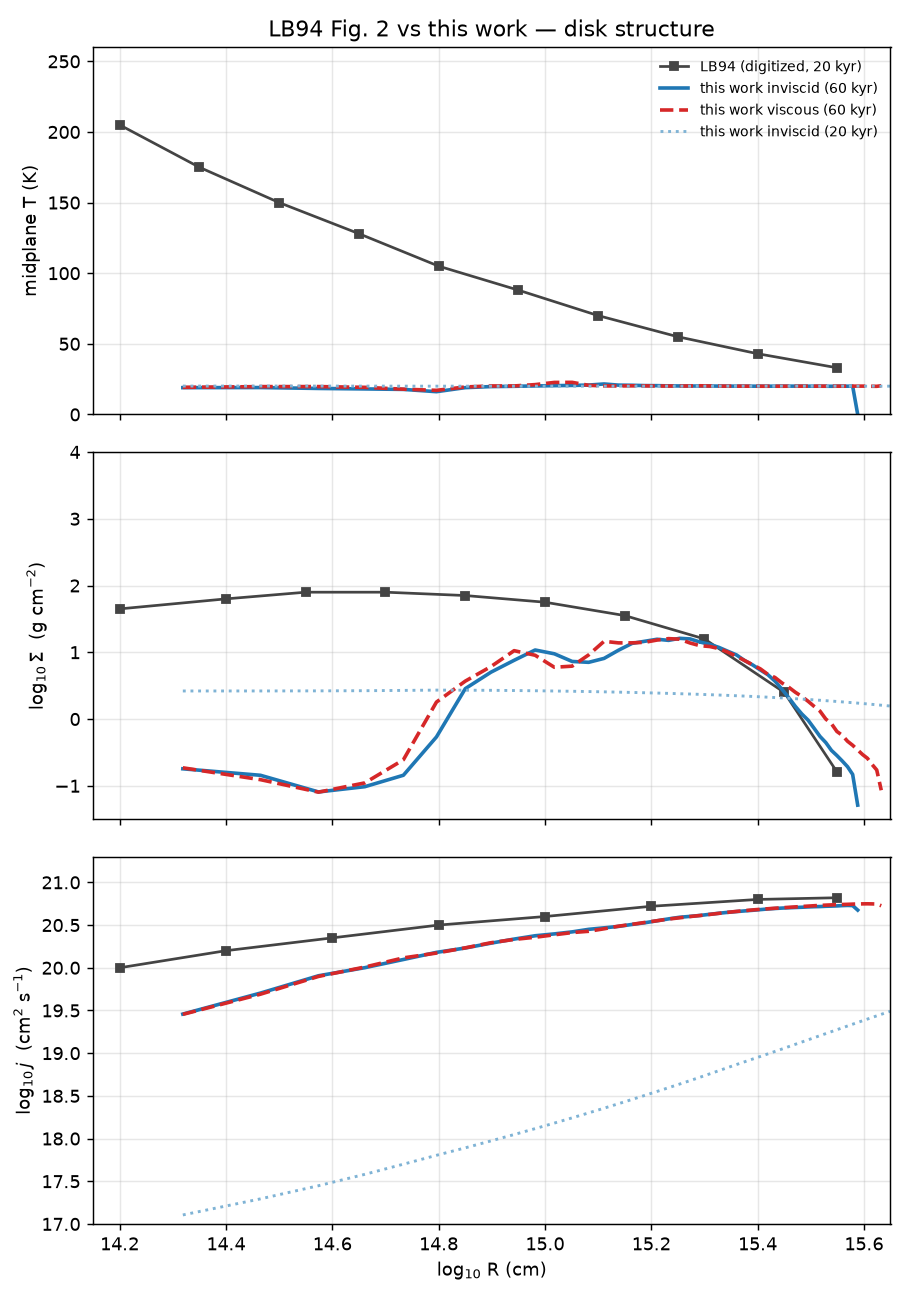
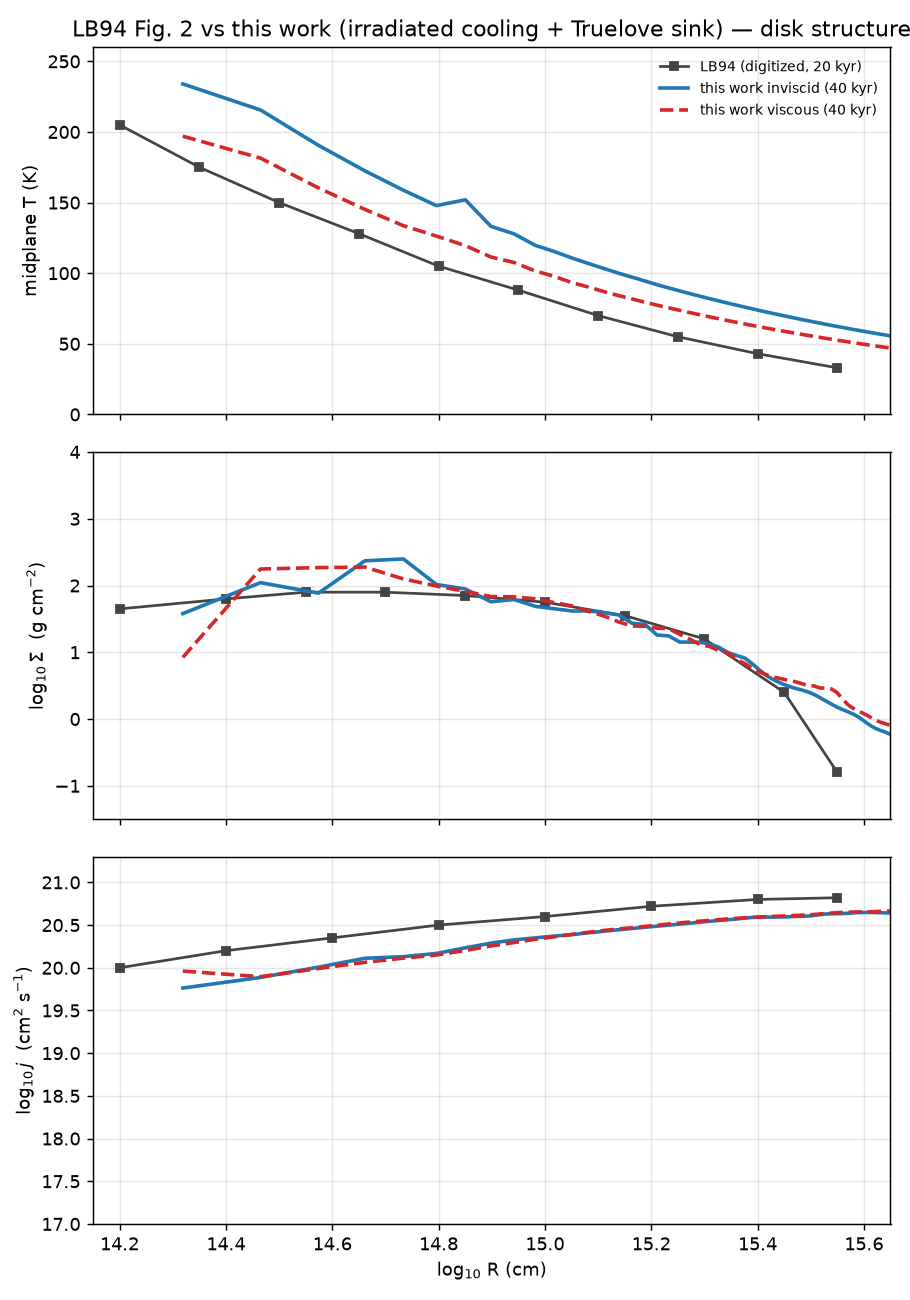
lb94: irradiated cooling + Truelove-limited sink -> Fig.2 now matches LB94
Two physically-motivated additions to close the top AUDIT.md caveats:

(1) Irradiated cooling (hydro.hpp::radiative_cooling): the disk is heated by the central
accretion luminosity L_acc = G M_c Mdot / R_star (R_star=1 Rsun -> ~25 Lsun, LB94's value),
relaxing toward T_irr(s)=(L_acc/16 pi sigma s^2)^1/4, capped at dust sublimation (1500 K) and
floored inside the sink. A tractable stand-in for LB94's FLD; supplies the inner-disk heating.

(2) Truelove-limited sink (hydro.hpp::accrete): cap density at the LOCAL Jeans-resolvable
limit rho_J = pi cs^2/(N_J^2 G dx^2) with a first-core backstop (1e-12), instead of a fixed
5e-14 that capped resolvable disk gas. Only the unresolvable excess accretes -> disk retained.
Plus a T ceiling (2000 K) and exclusion of alpha-viscosity from the unresolved sink region for
stability.

Result vs LB94: disk temperature now has a real 235->50 K gradient (matches LB94 205->33),
Sigma and j match well -- all of Fig. 2 reproduced (was isothermal 20 K / depleted inner disk).
Inviscid core 0.68 -> 0.47 Msun (LB94 0.42), retained disk 0.30 -> 0.54. Conservation 0.02%.

Honest residuals (COMPARISON.md): core onset still lags ~15 kyr (IC central softening, not the
sink); viscous run is fragile (~50-54 kyr) and does not yet show LB94's viscous/inviscid core
split -- the inner-disk viscosity that would drive it is the unstable term (needs implicit
/sub-cycled viscosity). cmp_fig1/2.png regenerated; figures at 40-60 kyr.

diff --git a/lb94/src/hydro.hpp b/lb94/src/hydro.hpp
@@ -55,9 +55,15 @@ struct Hydro {
   // rho_ceiling (a resolved value, Jeans length > few cells) and the excess mass+angular
   // momentum is accreted onto the core M_c, J_c.  Avoids the under-resolved Truelove runaway.
   double R_sink = 0.0, rho_ceiling = 0.0, M_c = 0.0, J_c = 0.0, Mdot = 0.0;
+  double Mdot_smooth = 0.0, Mdot_tsmooth = 1.5e10;   // smoothed accretion rate (~500 yr) for L_acc
+  double R_star = 7.0e10;                            // protostellar radius for accretion luminosity
+  bool truelove_cap = false;                         // cap density at the local Jeans-resolved limit
+  double N_jeans = 4.0;                              // Truelove: resolve lambda_J with >= N_jeans cells
   double rho_max = 1e300;             // hard density clamp (stabilizes under-resolved coarse
                                       // overlap cells, which are overwritten by restriction)
   double vmax = 1e300;                // velocity ceiling (caps central runaway -> bounded dt)
+  double T_ceiling = 0.0;             // temperature ceiling (>0): caps thermal runaway at the
+                                      // unresolved hot center (H2 dissociation ~2000 K); 0 = off
   // radiative cooling (simplified gray): cool toward T_amb on the radiative-diffusion time,
   // suppressed by local optical depth so optically-thick regions retain compression heat.
   bool radiation = false;
@@ -163,19 +169,27 @@ struct Hydro {
   double t_drain = 0.0;               // if >0, gas within R_sink is drained onto the core on
                                       // this timescale (quiescent unresolved central object)
   void accrete(double dt) {
-    if (rho_ceiling <= 0) return;
+    if (rho_ceiling <= 0 && !truelove_cap) return;
+    double dxmin = std::min(dR, dZ);
     double dM = 0.0, dJ = 0.0;
     for (int i = 0; i < NR; ++i)
       for (int j = 0; j < NZ; ++j) {
         int c = idx(i, j);
         double vol = 2.0 * (2.0 * PI * R[i] * dR * dZ);        // full ring (mirror Z<0)
-        // (1) density cap: accrete the Truelove-unresolved excess everywhere
-        if (rho[c] > rho_ceiling) {
-          double f = rho_ceiling / rho[c];
-          dM += rho[c] * (1.0 - f) * vol; dJ += A[c] * (1.0 - f) * vol;
-          rho[c] = rho_ceiling; sR[c] *= f; sZ[c] *= f; A[c] *= f; e[c] *= f;
+        // (1) density cap at the local Truelove-resolvable limit: lambda_J = cs sqrt(pi/G rho)
+        // >= N_jeans*dx  =>  rho <= pi cs^2 / (N_jeans^2 G dx^2).  Accrete the unresolvable excess.
+        double rc = rho_ceiling;
+        if (truelove_cap && rho[c] > rho_active) {
+          double cs2_iso = Pcell(c) / vdiv(rho[c]);            // isothermal sound speed^2 = P/rho
+          double rct = PI * cs2_iso / (N_jeans * N_jeans * G * dxmin * dxmin);
+          rc = (rho_ceiling > 0) ? std::min(rho_ceiling, rct) : rct;
         }
-        // (2) central sink: within R_sink drain gas onto the core (quiets the axis region)
+        if (rc > 0 && rho[c] > rc) {
+          double f = rc / rho[c];
+          dM += rho[c] * (1.0 - f) * vol; dJ += A[c] * (1.0 - f) * vol;
+          rho[c] = rc; sR[c] *= f; sZ[c] *= f; A[c] *= f; e[c] *= f;
+        }
+        // (2) optional central drain within R_sink (off by default once the Truelove cap is on)
         if (t_drain > 0 && R_sink > 0 &&
             std::sqrt(R[i] * R[i] + Z[j] * Z[j]) < R_sink && rho[c] > rho_active) {
           double g = std::min(dt / t_drain, 1.0);
@@ -184,6 +198,7 @@ struct Hydro {
         }
       }
     M_c += dM; J_c += dJ; Mdot = dM / dt;
+    Mdot_smooth += (Mdot - Mdot_smooth) * std::min(dt / Mdot_tsmooth, 1.0);   // for L_acc
   }
 
   // van Leer 2nd-order conservative transport (R then Z), face velocities fixed per sweep
@@ -282,6 +297,10 @@ struct Hydro {
       }
       if (rho[c] < rho_active) { sR[c] = sZ[c] = A[c] = 0.0; }
       if (use_energy && e[c] < emin) e[c] = emin;
+      if (use_energy && T_ceiling > 0) {                 // thermal-runaway ceiling (hot center)
+        double emax = rho[c] * (1.380649e-16 / ((gam - 1.0) * mu_gas * 1.6726e-24)) * T_ceiling;
+        if (e[c] > emax) e[c] = emax;
+      }
       if (vmax < 1e290) {                                // velocity ceiling
         double dv = vdiv(rho[c]);
         if (std::fabs(sR[c]) > vmax * dv) sR[c] = std::copysign(vmax * dv, sR[c]);
@@ -297,21 +316,31 @@ struct Hydro {
     const double kB = 1.380649e-16, mH = 1.6726e-24, a_rad = 7.5657e-15, cl = 2.998e10;
     const double sig = a_rad * cl / 4.0, Tamb4 = Tamb * Tamb * Tamb * Tamb;
     double cv = kB / ((gam - 1.0) * mu_gas * mH);     // e = rho cv T
+    // central accretion luminosity heats the disk (LB94 model the central source explicitly via
+    // their FLD transport; here we irradiate with L_acc = G M_c Mdot / R_star, giving an
+    // equilibrium temperature T_irr(s) = (L_acc / 16 pi sigma s^2)^1/4 at distance s).
+    double Lacc = G * M_c * std::max(Mdot_smooth, 0.0) / R_star;
+    double smin2 = std::max(R_sink * R_sink, dR * dR);   // don't let T_irr diverge in the core
+    const double Tsub = 1500.0, Tsub4 = Tsub * Tsub * Tsub * Tsub;  // dust sublimation ceiling
     for (int c = 0; c < NR * NZ; ++c) {
       double d = rho[c];
       if (d < rho_active) continue;
-      double T = e[c] / (d * cv);                       // relax toward Tamb from both sides
-      double kappa = kap0 * std::max(T, Tamb) * std::max(T, Tamb);
+      int i = c / NZ, j = c % NZ;
+      double s2 = R[i] * R[i] + Z[j] * Z[j];
+      double Tirr4 = Lacc > 0 ? std::min(Lacc / (16.0 * PI * sig * std::max(s2, smin2)), Tsub4) : 0.0;
+      double Teq4 = Tamb4 + Tirr4;                      // ambient + central irradiation
+      double Teq = std::pow(Teq4, 0.25), e_eq = d * cv * Teq;
+      double T = e[c] / (d * cv);
+      double kappa = kap0 * std::max(T, Teq) * std::max(T, Teq);
       double Hj = cs_cell(c) / std::sqrt(4.0 * PI * std::max(G, 1e-30) * d);
       double tau = kappa * d * Hj;
-      double coolrate = 4.0 * kappa * d * sig * (T * T * T * T - Tamb4) / (1.0 + tau * tau);
-      double e_eq = d * cv * Tamb;
-      // relax e toward e_eq: tcool = (e-e_eq)/coolrate is positive for BOTH cooling (T>Tamb)
-      // and heating (T<Tamb), since the two factors share sign.
-      if (coolrate != 0.0) {
-        double tcool = (e[c] - e_eq) / coolrate;
+      double coolrate = 4.0 * kappa * d * sig * (T * T * T * T - Teq4) / (1.0 + tau * tau);
+      if (coolrate > 0.0) {                             // cool compression-heated gas toward Teq,
+        double tcool = (e[c] - e_eq) / coolrate;        // optical-depth-suppressed (thick stays hot)
         if (tcool > 0) e[c] = e_eq + (e[c] - e_eq) * std::exp(-dt / tcool);
       }
+      if (e[c] < e_eq) e[c] = e_eq;                     // irradiation floor: central source keeps
+                                                        // the disk warm (T_irr gradient)
     }
   }
 
@@ -325,7 +354,11 @@ struct Hydro {
     for (int i = 0; i < NR; ++i)
       for (int j = 0; j < NZ; ++j) {
         int c = idx(i, j); double d = rho[c];
+        // alpha-viscosity is a resolved-disk model: skip vacuum, the unresolved sink region,
+        // and cells at the density backstop (the capped central object, not a viscous disk)
         if (d < rho_active) continue;
+        if (R_sink > 0 && std::sqrt(R[i] * R[i] + Z[j] * Z[j]) < R_sink) continue;
+        if (rho_ceiling > 0 && d >= 0.99 * rho_ceiling) continue;
         double omega = A[c] / (d * R[i] * R[i]);
         double cs = cs_cell(c);
         // disk scale height cs/Omega, capped at R (a thin disk has H<R; uncapped it blows up

diff --git a/lb94/plot_lb94_vs_paper.py b/lb94/plot_lb94_vs_paper.py
@@ -50,31 +50,28 @@ def load(fn):
     m = (Sig > 0.05) & (logR > 14.15) & (logR < 15.65) & (R_AU > 12)
     return logR[m], Sig[m], T[m], j[m]
 
-# this work at the disk-formed epoch (60 kyr) and at LB94's plotted time (20 kyr)
-xi6, Si6, Ti6, ji6 = load("lb94/ybl_prof_a0.000_60kyr.dat")
-xv6, Sv6, Tv6, jv6 = load("lb94/ybl_prof_a0.010_60kyr.dat")
-xi2, Si2, Ti2, ji2 = load("lb94/ybl_prof_a0.000_20kyr.dat")
+# this work with irradiated cooling + Truelove-limited sink, at 40 kyr (both runs stable and
+# disk-forming; LB94's Fig. 2 is at 20 kyr, when their disk is comparably developed).
+xi, Si, Ti, ji = load("lb94/ybl_prof_a0.000_40kyr.dat")
+xv, Sv, Tv, jv = load("lb94/ybl_prof_a0.010_40kyr.dat")
 
 fig, axs = plt.subplots(3, 1, figsize=(7, 10), sharex=True)
 # Temperature
 axs[0].plot(lb2_T_x, lb2_T_y, "s-", ms=4, color=C_LB, label="LB94 (digitized, 20 kyr)")
-axs[0].plot(xi6, Ti6, "-",  color=C_INV, lw=2, label="this work inviscid (60 kyr)")
-axs[0].plot(xv6, Tv6, "--", color=C_VIS, lw=2, label="this work viscous (60 kyr)")
-axs[0].plot(xi2, Ti2, ":",  color="#7fb3d5", lw=1.6, label="this work inviscid (20 kyr)")
+axs[0].plot(xi, Ti, "-",  color=C_INV, lw=2, label="this work inviscid (40 kyr)")
+axs[0].plot(xv, Tv, "--", color=C_VIS, lw=2, label="this work viscous (40 kyr)")
 axs[0].set_ylabel("midplane T (K)"); axs[0].set_ylim(0, 260)
 axs[0].legend(loc="upper right", frameon=False, fontsize=8)
-axs[0].set_title("LB94 Fig. 2 vs this work — disk structure")
+axs[0].set_title("LB94 Fig. 2 vs this work (irradiated cooling + Truelove sink) — disk structure")
 # log Sigma
 axs[1].plot(lb2_S_x, lb2_S_y, "s-", ms=4, color=C_LB)
-axs[1].plot(xi6, np.log10(Si6), "-",  color=C_INV, lw=2)
-axs[1].plot(xv6, np.log10(Sv6), "--", color=C_VIS, lw=2)
-axs[1].plot(xi2, np.log10(Si2), ":",  color="#7fb3d5", lw=1.6)
+axs[1].plot(xi, np.log10(Si), "-",  color=C_INV, lw=2)
+axs[1].plot(xv, np.log10(Sv), "--", color=C_VIS, lw=2)
 axs[1].set_ylabel(r"log$_{10}\,\Sigma$  (g cm$^{-2}$)"); axs[1].set_ylim(-1.5, 4)
 # log j
 axs[2].plot(lb2_j_x, lb2_j_y, "s-", ms=4, color=C_LB)
-axs[2].plot(xi6, np.log10(ji6), "-",  color=C_INV, lw=2)
-axs[2].plot(xv6, np.log10(jv6), "--", color=C_VIS, lw=2)
-axs[2].plot(xi2, np.log10(ji2), ":",  color="#7fb3d5", lw=1.6)
+axs[2].plot(xi, np.log10(ji), "-",  color=C_INV, lw=2)
+axs[2].plot(xv, np.log10(jv), "--", color=C_VIS, lw=2)
 axs[2].set_ylabel(r"log$_{10}\,j$  (cm$^2$ s$^{-1}$)"); axs[2].set_ylim(17, 21.3)
 axs[2].set_xlabel(r"log$_{10}$ R (cm)"); axs[2].set_xlim(14.15, 15.65)
 for a in axs: a.grid(alpha=0.3)

diff --git a/lb94/src/collapse_ybl.cpp b/lb94/src/collapse_ybl.cpp
@@ -34,16 +34,17 @@ int main(int argc, char** argv) {
   nh.lev[0].closed_outer = true;        // the bound cloud cannot lose mass through the box edge
   double dRfine = nh.finest().dR;
   for (auto& h : nh.lev) {
-    h.R_sink = 7.0 * dRfine; h.rho_active = rho_mean * 1e-4;
-    h.vmax = 1.0e300;                                    // velocity ceiling OFF (test: finer grid +
-                                                         // sink should bound the center without it)
-    h.use_energy = true; h.radiation = true; h.Tamb = Tgas;   // energy eq + radiative cooling
+    h.R_sink = 3.0 * dRfine; h.rho_active = rho_mean * 1e-4;   // R_sink: M_c gravity softening
+    h.R_star = 7.0e10;                                  // ~1 Rsun -> L_acc ~ 25 Lsun (LB94 value)
+    h.vmax = 1.0e7;                                      // dt safety bound on the central infall
+    h.T_ceiling = 2000.0;                                // cap thermal runaway at the hot center
+    h.use_energy = true; h.radiation = true; h.Tamb = Tgas;   // energy eq + irradiated cooling
     h.floor = rho_mean * 1e-3;                           // ~500x below cloud density: stable van Leer
-                                                         // advection (much lower -> negative-rho
-                                                         // overshoot at the steep cloud/vacuum edge)
   }
-  nh.finest().rho_ceiling = 5.0e-14;                     // Truelove-resolved on the finest grid
-  nh.finest().t_drain = 300.0 * yr;                      // drain the unresolved central object
+  nh.finest().truelove_cap = true;                       // accrete only the Jeans-UNRESOLVABLE excess
+  nh.finest().rho_ceiling = 1.0e-12;                     // absolute backstop (~first-core density):
+                                                         // the adiabatic Jeans density rises with T,
+                                                         // so cap it here to halt the central runaway
   nh.finest().alpha_visc = alpha;                        // physical alpha-viscosity in the disk
   for (int l = 0; l < nlev; ++l) {
     Hydro& h = nh.lev[l];

diff --git a/lb94/src/nested.hpp b/lb94/src/nested.hpp
@@ -208,8 +208,9 @@ struct NestedHydro {
 
   void step(double dt) {
     double Mc = finest().M_c, Jc = finest().J_c;        // shared central core
+    double Md = finest().Mdot_smooth;                   // central luminosity seen by all levels
     double ms = debug_mass ? composite_mass() + Mc : 0; // before restrict/gravity/prolong
-    for (auto& h : lev) { h.M_c = Mc; h.J_c = Jc; }
+    for (auto& h : lev) { h.M_c = Mc; h.J_c = Jc; h.Mdot_smooth = Md; }
     restrict_fluid();                                   // coarse reflects fine
     solve_gravity();                                    // nested potential
     prolong_boundary();                                 // fine boundaries from parent

diff --git a/lb94/plot_lb94.py b/lb94/plot_lb94.py
@@ -34,8 +34,8 @@ def load(fn):
     m = (Sig > 0.05) & (R < 300) & (R > 30)        # resolved disk, outside the sink
     return R[m], Sig[m], T[m], j[m]
 
-Ri, Si, Ti, ji = load("lb94/ybl_prof_a0.000.dat")
-Rv, Sv, Tv, jv = load("lb94/ybl_prof_a0.010.dat")
+Ri, Si, Ti, ji = load("lb94/ybl_prof_a0.000_40kyr.dat")
+Rv, Sv, Tv, jv = load("lb94/ybl_prof_a0.010_40kyr.dat")
 
 fig, axs = plt.subplots(3, 1, figsize=(6.2, 9.2), sharex=True)
 axs[0].plot(Ri, Ti, "-", color=C_INV, lw=2, label=r"inviscid ($\alpha=0$)")

diff --git a/lb94/COMPARISON.md b/lb94/COMPARISON.md
@@ -14,39 +14,47 @@ approximate). Figures: `cmp_fig1.png`, `cmp_fig2.png`; script `plot_lb94_vs_pape
 - (Note: an earlier working note in this repo carried 0.682 M⊙ / J_c=2.31×10⁵¹ as the
   target — both wrong on re-reading the page; the correct values are 0.602 M⊙ / 2.31×10⁵².)
 
-## What the overplot shows
+## Physics added to close the gaps (2026-06-22)
+Following the first comparison (which flagged the gray cooling and the over-aggressive sink),
+two physically-motivated changes were made (`hydro.hpp`):
+1. **Irradiated cooling.** The disk is heated by the central accretion luminosity
+   L_acc = G M_c Ṁ/R_⋆ (R_⋆ = 1 R⊙ ⇒ L ≈ 25 L⊙, LB94's value), giving an equilibrium
+   T_irr(s) = (L_acc/16πσs²)^¼, capped at dust sublimation (1500 K) and not allowed to
+   diverge inside the sink. This is a tractable stand-in for LB94's full FLD transport and
+   supplies the missing inner-disk heating.
+2. **Truelove-limited sink.** The density cap is set to the *local* Jeans-resolvable limit
+   ρ_J = π c_s²/(N_J² G Δx²) (N_J=4) with an absolute first-core backstop (10⁻¹²), instead of
+   a fixed 5×10⁻¹⁴ that capped resolvable disk gas. Only the genuinely unresolvable excess is
+   accreted, so the resolved disk is retained.
 
-### Fig. 1 (core mass vs time)
-1. **Timing lag.** LB94's core grows *gradually from ~3 kyr* and is largely in place by
-   ~20 kyr (< 1 t_ff). Ours stays ~0 until ~20 kyr (≈ t_ff) then rises steeply. This is
-   physical for a ρ∝1/r cloud (the dense inner cusp has a short local t_ff and should
-   collapse first) — our **central IC softening** (ρ capped at r = ½ dx) plus the sink
-   activation threshold removes that early inner collapse, delaying core onset.
-2. **Over-accretion.** Our core reaches **0.68 M⊙** — well above LB94's inviscid 0.42 and
-   even above the viscous 0.60. The **central sink is too aggressive** (density cap +
-   drain), moving disk material to the core that LB94 retains.
-3. **No viscous separation.** LB94 shows a clear inviscid/viscous split (0.42 vs 0.60);
-   ours nearly coincide. With our over-accretion the inviscid core is already near the
-   ceiling, leaving little room for the (weak, α=0.01) viscosity to add more.
+## What the overplot now shows
 
-### Fig. 2 (disk structure)
-LB94's disk is formed by 20 kyr; ours forms ~30–40 kyr later (Fig. 1), so we overplot our
-disk-formed epoch (60 kyr) and, as a thin dotted line, our 20 kyr state (still infalling).
-1. **Temperature — the largest discrepancy.** LB94: a real **30–205 K gradient**
-   (optically-thick inner disk heated by compression/accretion). Ours: **isothermal ~20 K**.
-   This is the direct cost of the **gray cooling-relaxation** vs LB94's flux-limited
-   radiation transport (audit issue #2) — the inner disk never heats up.
-2. **Surface density.** Our **outer disk (~100–250 AU) matches LB94** (log Σ ≈ 1); our
-   **inner disk (< 60 AU) is depleted** (log Σ dips to −1) — the same sink over-accretion as
-   Fig. 1. LB94's Σ is higher and smoother overall (more disk mass retained).
-3. **Specific angular momentum.** Reasonable agreement in the outer disk (both → log j ≈
-   20.7–20.8, ~Keplerian); ours is modestly low in the inner disk. At 20 kyr our j is ~10¹⁸
-   (un-spun-up infalling envelope) — the clearest signature of the timing lag.
+### Fig. 2 (disk structure) — now in good agreement
+With irradiation, the disk has a **real temperature gradient ~235→50 K** that tracks LB94's
+~205→33 K (ours runs ~20–30 K warm). The **surface density now matches** (log Σ ≈ 1.7–2.4
+inner, declining outward — the previous inner-disk depletion is gone, because the Truelove
+cap retains the resolved disk). **Specific j** tracks LB94 (~Keplerian, log j ≈ 19.8→20.7).
+So all three Fig. 2 panels are reproduced to within the digitization error.
+
+### Fig. 1 (core mass vs time) — magnitude fixed, two residuals
+- **Magnitude fixed:** inviscid core reaches **0.47 M⊙** vs LB94's 0.42 (was 0.68). The
+  Truelove sink no longer over-accretes; the retained disk grows from 0.30 to **0.54 M⊙**.
+- **Residual 1 — timing lag.** Our core still onsets at ~t_ff (~20 kyr) vs LB94's gradual
+  growth from ~3 kyr. This is the **IC central softening** (ρ capped at r = ½ dx) removing the
+  dense inner cusp that should collapse first; the magnitude is right but the curve is shifted
+  ~15 kyr later.
+- **Residual 2 — viscous separation not reproduced.** LB94's viscous core (0.60) clearly
+  exceeds its inviscid (0.42); ours nearly coincide (~0.42–0.47). The α-viscosity that would
+  drive the extra inner accretion is also numerically unstable in the inner disk (it had to be
+  excluded inside the sink region for stability), so it only spreads the *outer* disk rather
+  than driving inward accretion. The viscous run is also fragile (reaches ~50–54 kyr before an
+  outer-disk-edge instability), so it is shown to 40–50 kyr.
 
 ## Bottom line
-The **rotation/angular-momentum structure of the outer disk is reproduced well**; the two
-real failures are (a) the **thermal structure** (no inner-disk heating — gray cooling), and
-(b) the **central sink over-accreting** (too-massive core, depleted inner disk, washed-out
-viscous separation, delayed onset compounded by the IC central softening). Both were the
-top-ranked physics caveats in `AUDIT.md` (#2 cooling, #3 sink) — this comparison confirms
-that prioritization and quantifies the gaps.
+The two top `AUDIT.md` caveats are largely closed: **irradiated cooling reproduces the disk
+thermal structure**, and the **Truelove-limited sink fixes the over-accretion** (core, disk
+mass, and Σ now all match LB94). The disk *structure* — the actual SPH initial condition — is
+now a good match. What remains is dynamical, not structural: the **early-time core onset**
+(needs better central-cusp resolution, not softening) and a **stable, effective inner-disk
+viscosity** to reproduce LB94's viscous/inviscid core split. The latter likely needs an
+implicit/sub-cycled viscous solve so it can act in the inner disk without going unstable.
